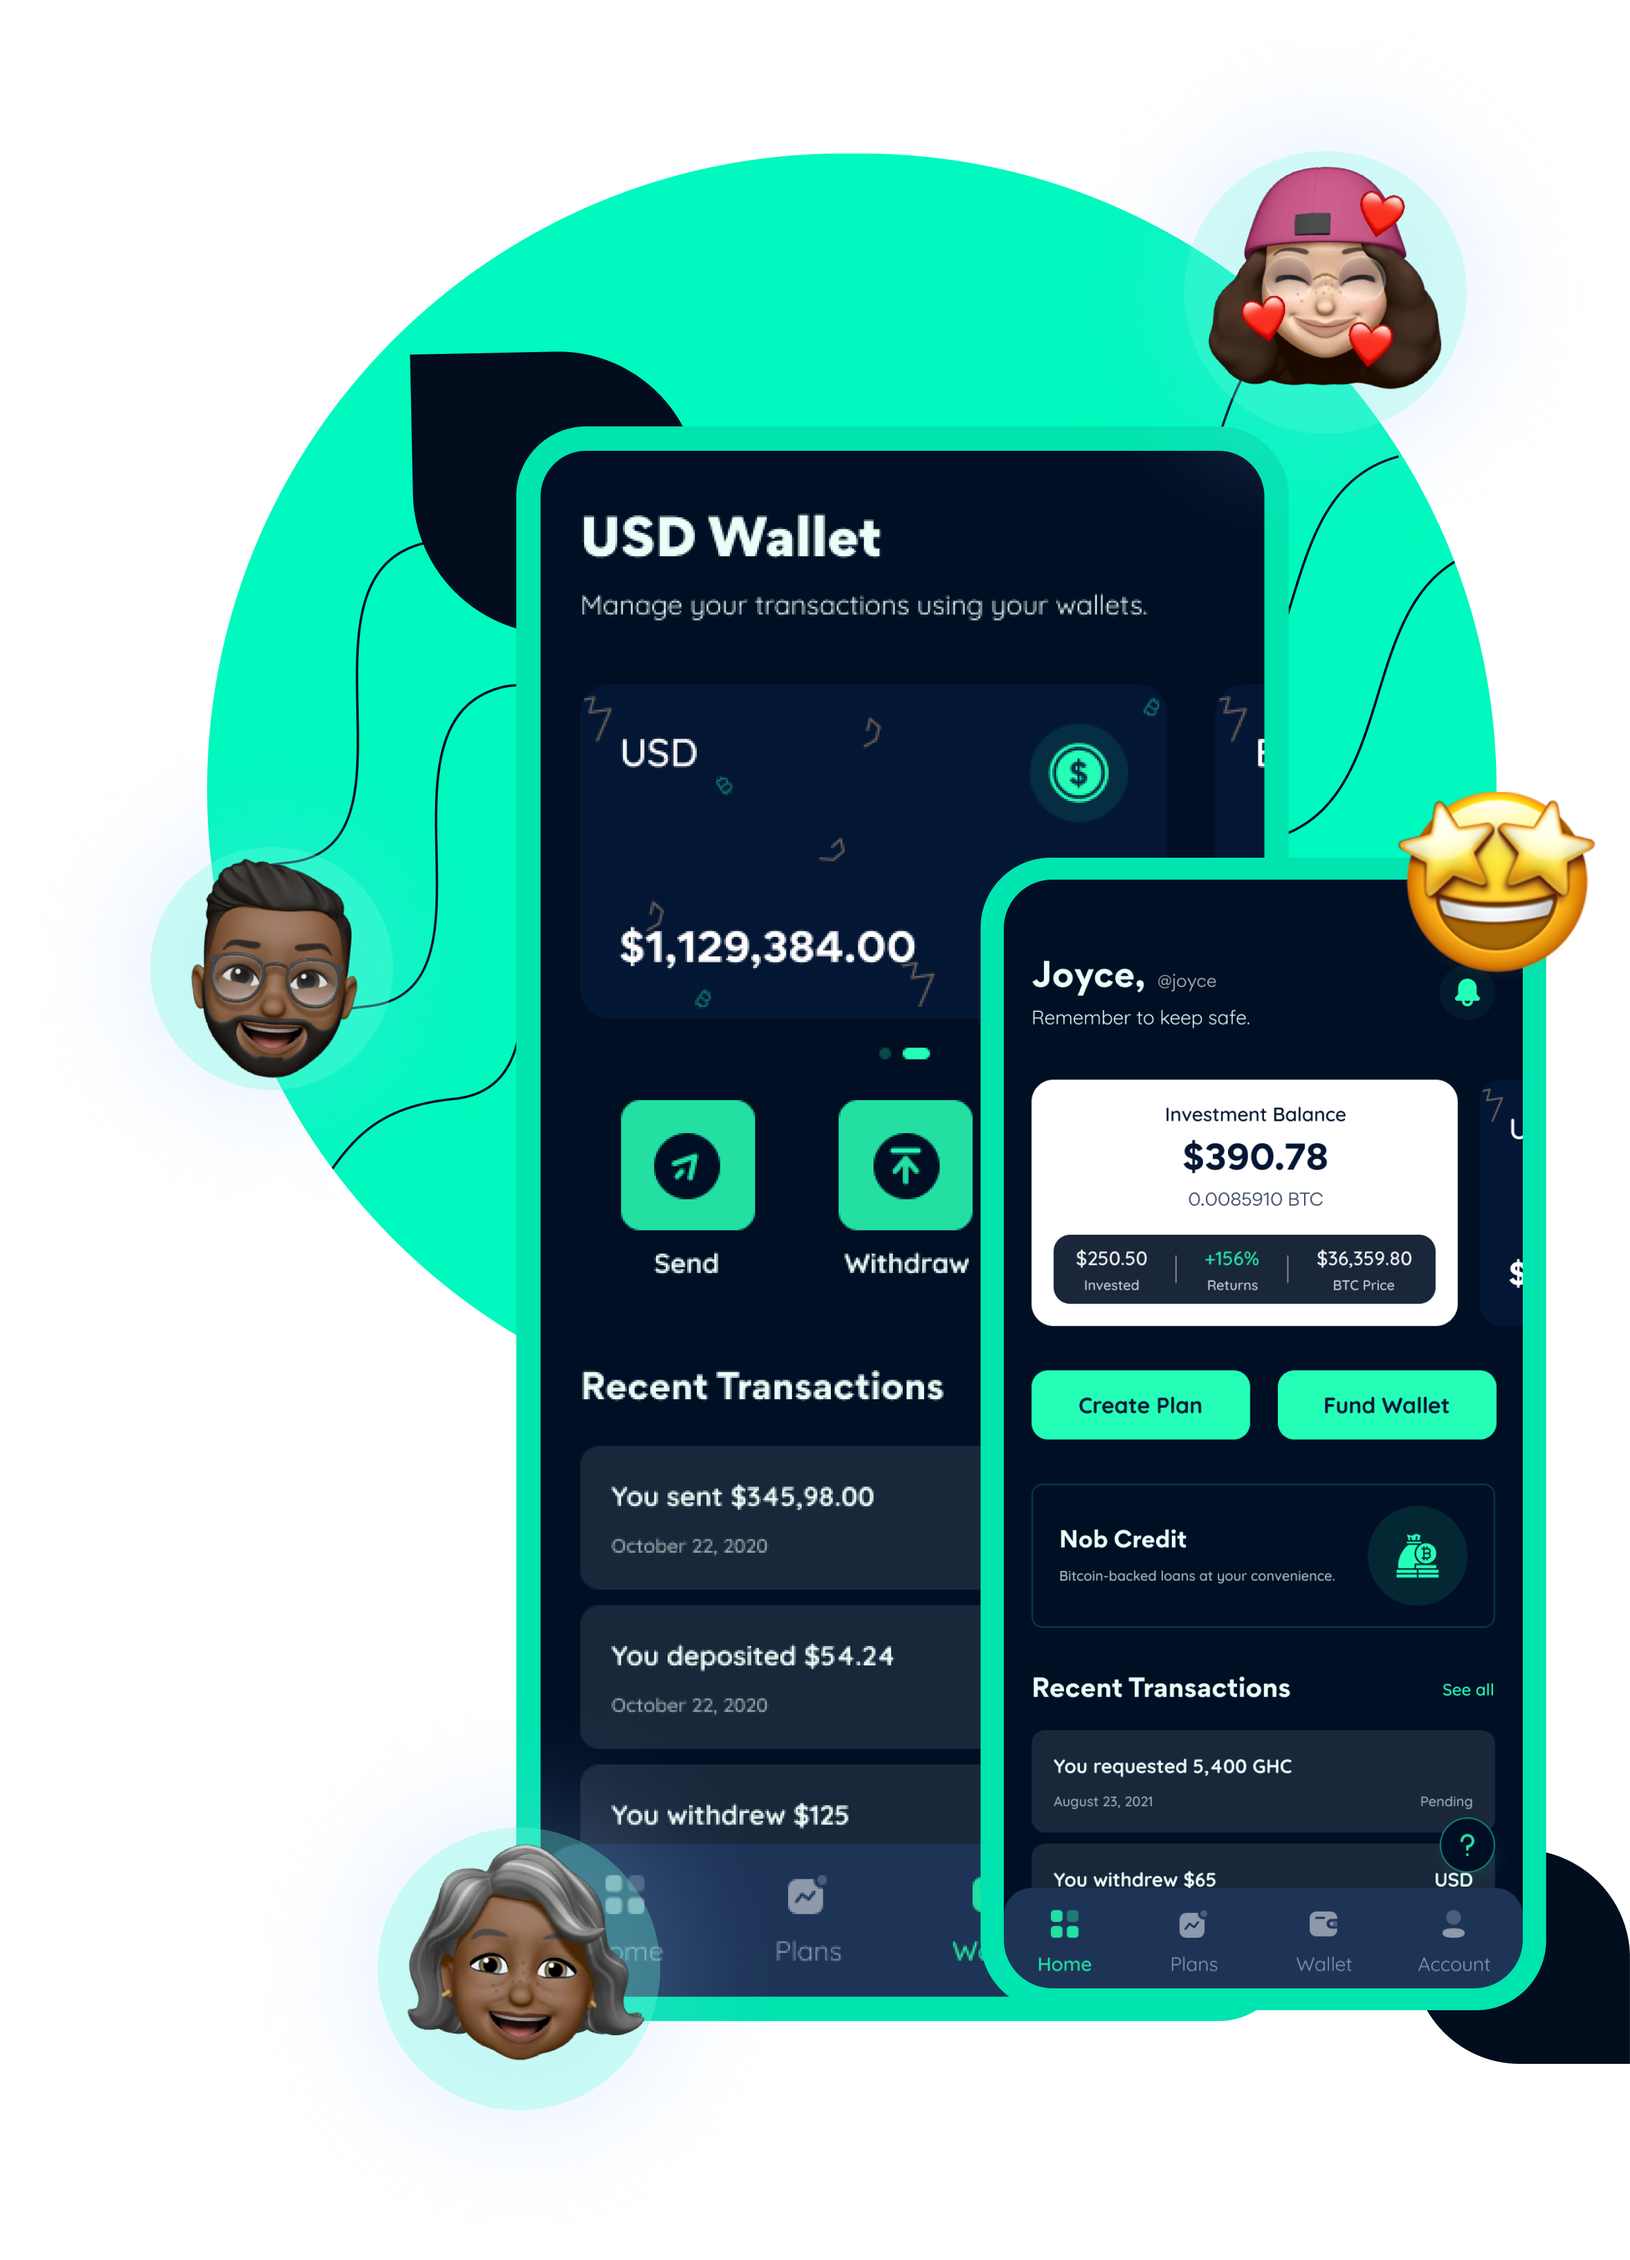
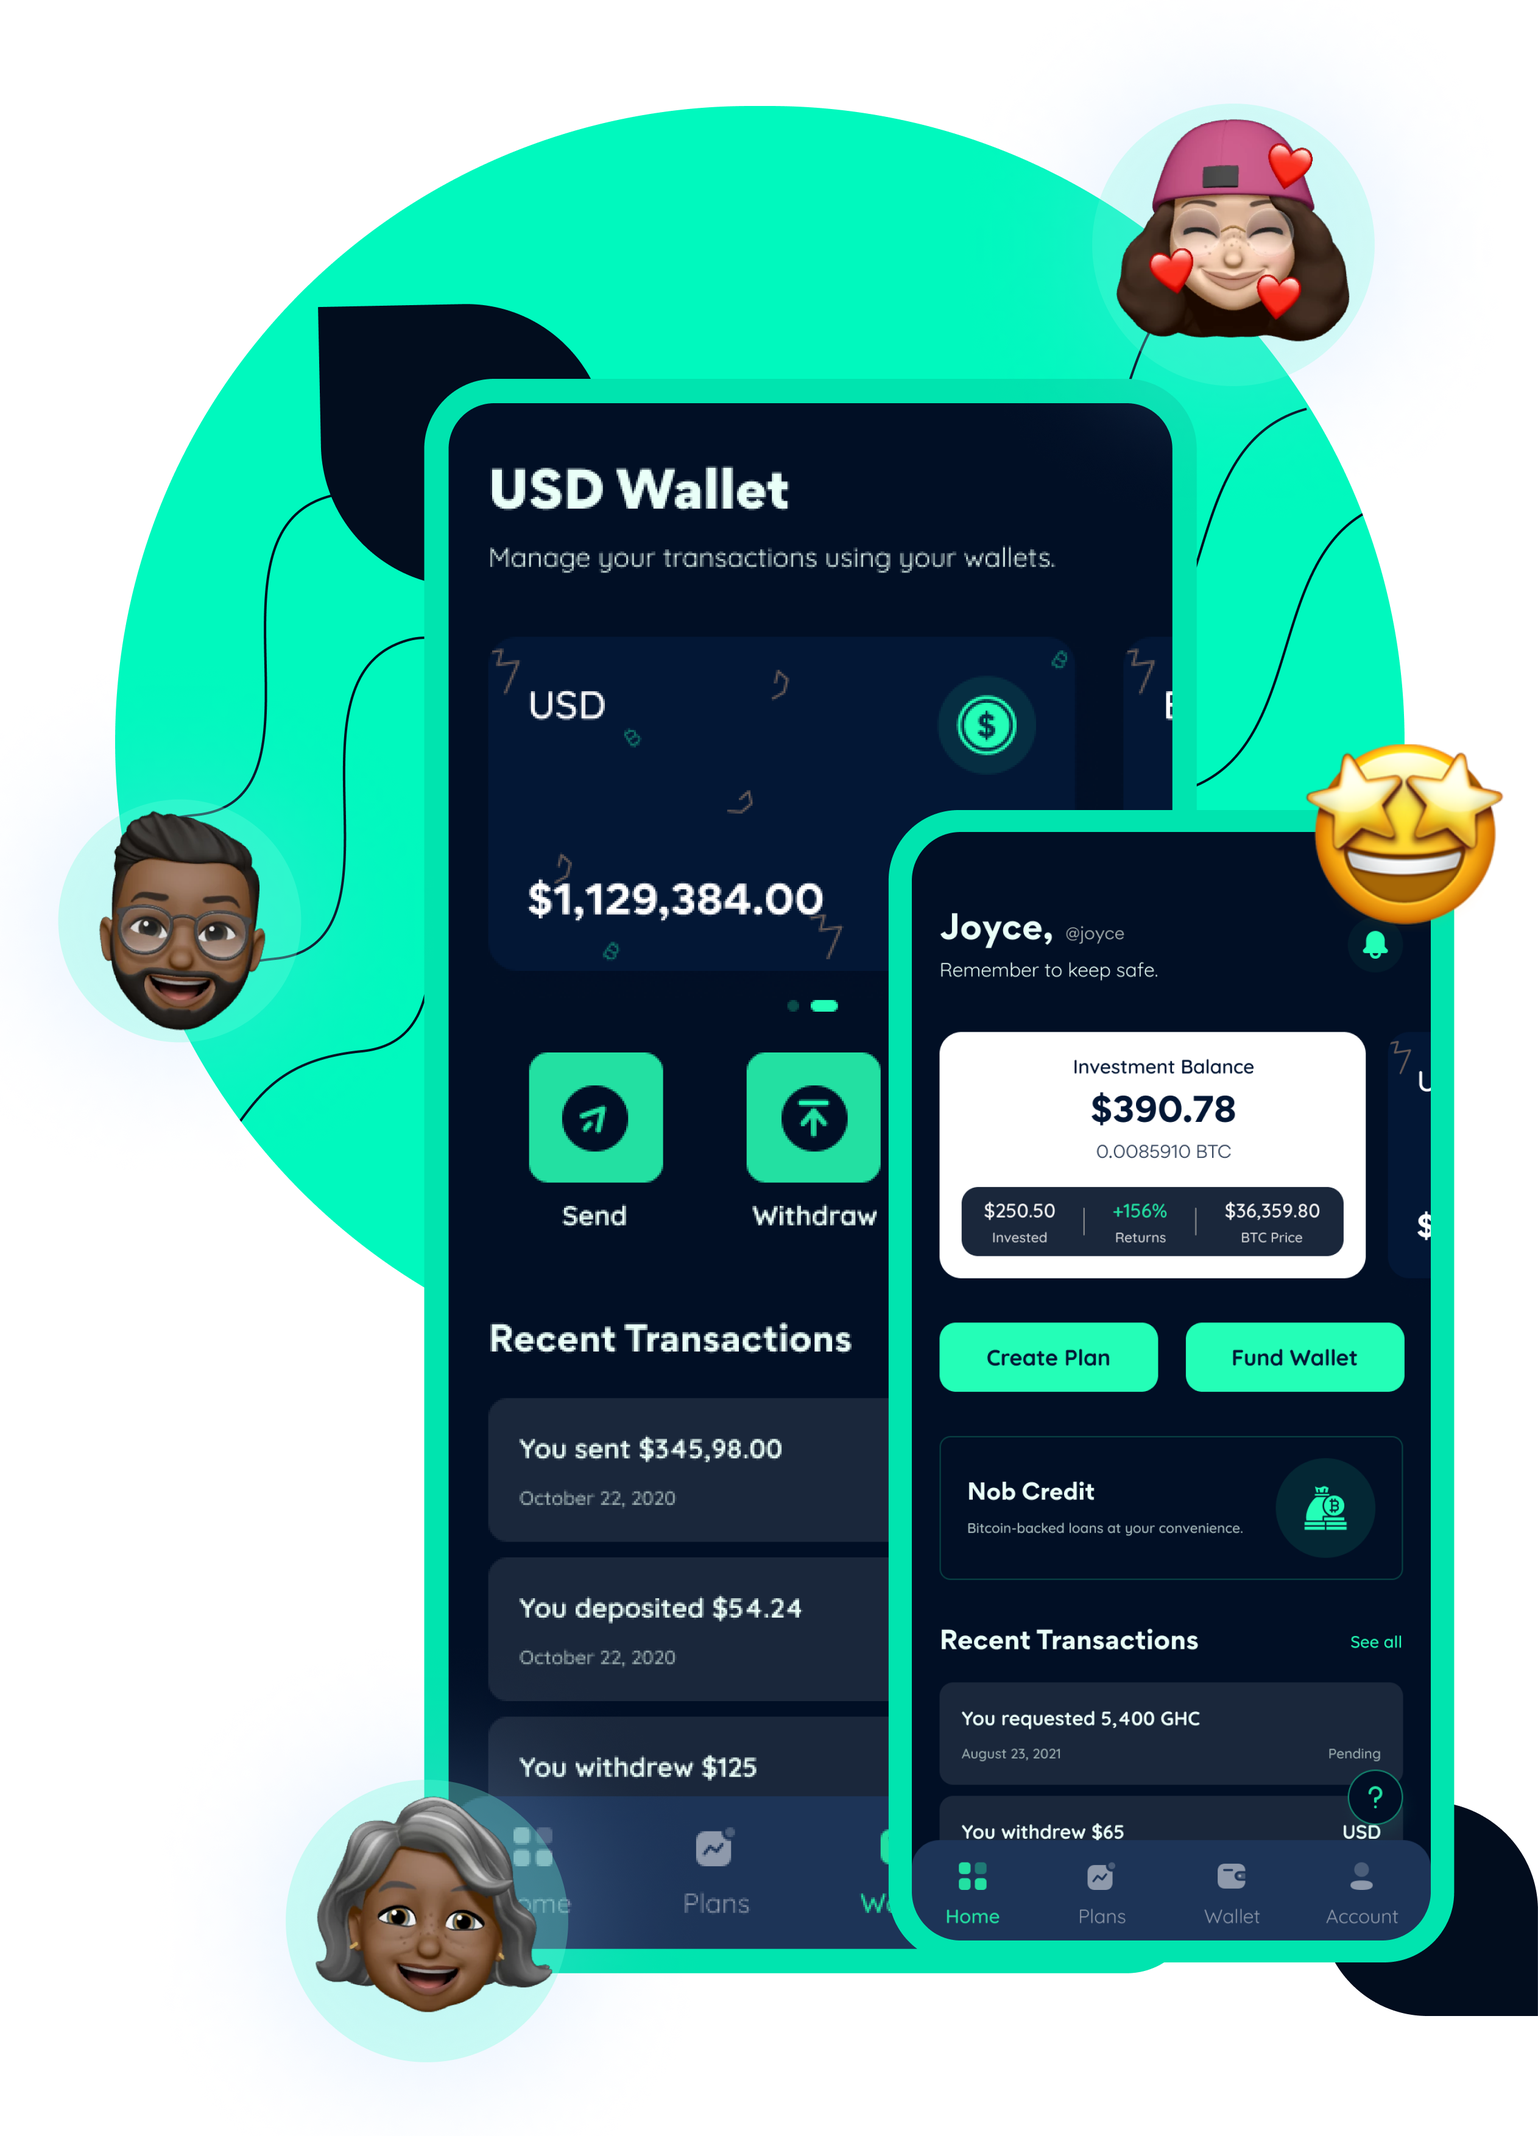
chore: update

diff --git a/components/ProductPage/index.js b/components/ProductPage/index.js
@@ -17,7 +17,7 @@ const BreadCrumb = ()=> {
 
 
     return(
-        <ul className="breadcrumb mt-10 flex space-x-2 lg:space-x-4 lg:space-x-4 items-center">
+        <ul className="breadcrumb overflow-x-scroll md:overflow-x-hidden whitespace-pre mt-10 flex space-x-2 lg:space-x-4 lg:space-x-4 items-center">
             {
                 breadcrumb.map(({title, route}, i)=> (
                     <React.Fragment>
@@ -32,7 +32,7 @@ const BreadCrumb = ()=> {
     )
 }
 
-const ProductPage= ({ heading, subHeading, dataList, desktopImg, mobileImg })=> {
+const ProductPage= ({ heading, subHeading, dataList, desktopImg, mobileImg, adjust })=> {
     const icons = {
         "USD": <Usd />,
         "Savings" : <Savings />,
@@ -52,7 +52,7 @@ const ProductPage= ({ heading, subHeading, dataList, desktopImg, mobileImg })=> 
                     <div className="flex flex-col-reverse lg:flex-row justify-between lg:space-x-28 2xl:space-x-10">
                         <div className="max-w-md">
                             <div className="hidden lg:block">
-                                <div>
+                                <div className="-ml-3">
                                     {icons[heading]}
                                 </div>
                                 <h1 className="text-black mt-1 mb-4 lg:mb-2 leading-tight text-2xs md:text-md lg:text-lg font-gordita font-black">
@@ -62,7 +62,7 @@ const ProductPage= ({ heading, subHeading, dataList, desktopImg, mobileImg })=> 
                                     {heading}
                                 </h1>
                             </div>
-                            <div className="space-y-12 items-center mt-12">
+                            <div className={`space-y-12 items-center ${adjust ? 'mt-80 lg:mt-12' : "mt-12"}`}>
                                 {
                                     dataList?.map(({title, description})=> (
                                         <div>
@@ -85,14 +85,14 @@ const ProductPage= ({ heading, subHeading, dataList, desktopImg, mobileImg })=> 
                                     {heading}
                                 </h1>
                             </div>
-                            <div className={`max-w-2xl ${styles.hero_image}`}>
+                            <div className={`max-w-2xl ${adjust ? styles.adjusted : ""} ${styles.hero_image}`}>
                                 <img src={desktopImg} className="hidden lg:block desktop" />
                                 <img src={mobileImg} className="block lg:hidden mobile relative left-1/4" />
                             </div>
                         </div>
                     </div>
                 </BitNobContainer>
-                <div className={`h-96 bg-bitGreen-100 w-full absolute block ${styles.product_bg}`} />
+                <div className={`h-96 bg-bitGreen-100 w-full absolute block ${adjust ? styles.adjusted_bg : ""} ${styles.product_bg}`} />
             </div>
             <BitNobContainer>
                 <div className={`mt-40 flex lg:block flex-col items-center overflow-hidden lg:overflow-visible pt-20 px-6 lg:p-16 lg:py-12 relative rounded-2xl bg-left bg-cover ${styles.product_foot}`}>

diff --git a/components/Home/solution.js b/components/Home/solution.js
@@ -7,11 +7,11 @@ const Solution = () => {
 
     return (
         <BitNobContainer>
-            <div className="flex flex-col-reverse mt-16 lg:mt-0 lg:items-stretch lg:flex-row md:space-x-10 lg:space-x-24">
-                <div className=" self-center lg:self-stretch mt-10 lg:mt-0 -ml-8 xl:-ml-0 max-w-md 2xl:max-w-lg">
+            <div className="flex flex-col-reverse mt-16 lg:mt-0 lg:items-stretch lg:flex-row md:space-x-10 lg:space-x-28 xl:space-x-36">
+                <div className="self-center lg:self-stretch mt-10 lg:mt-0 -ml-8 max-w-md 2xl:max-w-lg">
                     <img src={solutionSection.image} alt="solution" />
                 </div>
-                <div className="max-w-xl xl:max-w-2xl">
+                <div className="max-w-xl xl:max-w-2xl 2xl:max-w-xl xl:mt-20">
                     <h2 className="font-black text-2xl md:text-3xl xl:text-4xl 2xl:text-5xl font-gordita leading-tight">{solutionSection.heading}</h2>
                     <p className=" md:text-md mt-4 font-quicksand text-bitGray-200">{solutionSection.description[0]} <br /> {solutionSection.description[1]}</p>
                     <div className="space-y-6 mt-16 md:mt-20">

diff --git a/styles/ProductPage.module.css b/styles/ProductPage.module.css
@@ -13,6 +13,12 @@
     border-radius: 24px;
 }
 
+.adjusted {
+    transform: scale(1.5);
+    position: relative;
+    top: 150px;
+}
+
 .product_foot {
     min-height: 300px;
     background-image: url("/images/product-page-bg.png");
@@ -55,6 +61,10 @@
         left: 40
     }
 
+    .adjusted {
+        margin-top: -80px;
+    }
+
     .product_foot {
         min-height: 300px;
         background-image: url("/images/product-page-bg-mobile.png");
@@ -66,5 +76,14 @@
     .product_bg {
         height: 20%;
         left: 12%;
+    }
+
+    .adjusted {
+        position: relative;
+        left: -20%;
+    }
+
+    .adjusted_bg {
+        top: 25%;
     }
 }

diff --git a/components/Home/landing.js b/components/Home/landing.js
@@ -13,7 +13,7 @@ const Landing = ()=> {
 
   return (
     <Page title="Welcome to BitNob">
-      <div className="relative overflow-hidden">
+      <div className="relative xl:mt-10 overflow-hidden">
         <BitNobContainer>
           <div className="flex flex-col lg:flex-row w-full pt-16 md:pt-20 lg:justify-between">
             <div className=" max-w-md flex-1">

diff --git a/styles/Home.module.css b/styles/Home.module.css
@@ -15,16 +15,15 @@
     background-position: left;
     background-size: contain;
     background-repeat: no-repeat;
-    height: 450px;
+    height: 470px;
     width: 100%;
     top: 10%;
-    left: 47%;
+    left: 42%;
 }
 
 .landing_cover img {
-    height: 600px;
-    left: 30%;
-    object-fit: contain;
+    height: 650px;
+    left: 35%;
 }
 
 .reviews {

diff --git a/pages/features/dollar-cost-averaging.js b/pages/features/dollar-cost-averaging.js
@@ -3,7 +3,7 @@ import { featureData } from "static";
 
 const DollarCostAveraging = ()=> (
     <Page title={featureData.dollarCostData.heading}>
-        <ProductPage {...featureData.dollarCostData} />
+        <ProductPage adjust {...featureData.dollarCostData} />
     </Page>
 )
 
